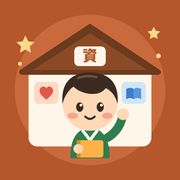
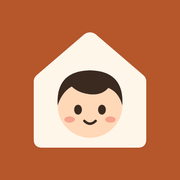
App 圖示改為簡潔版
Claude-Session: https://claude.ai/code/session_01GLxa4W7GB8Fdeq4kgCC7y4

diff --git a/sw.js b/sw.js
@@ -1,4 +1,4 @@
-const CACHE = 'links-v2';
+const CACHE = 'links-v3';
 const FILES = ['./', 'index.html', 'manifest.webmanifest', 'icon-192.png', 'icon-512.png', 'apple-touch-icon.png'];
 self.addEventListener('install', e => {
   e.waitUntil(caches.open(CACHE).then(c => c.addAll(FILES)).then(() => self.skipWaiting()));
